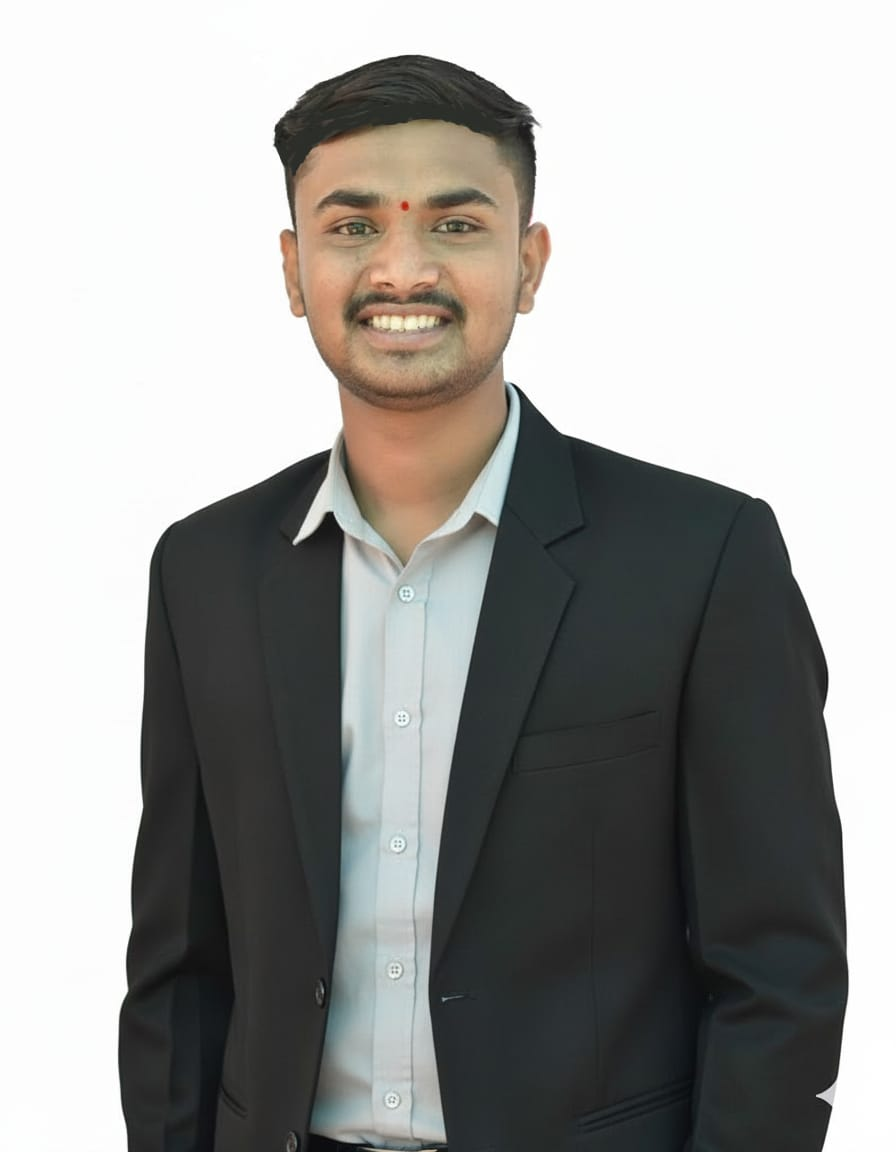
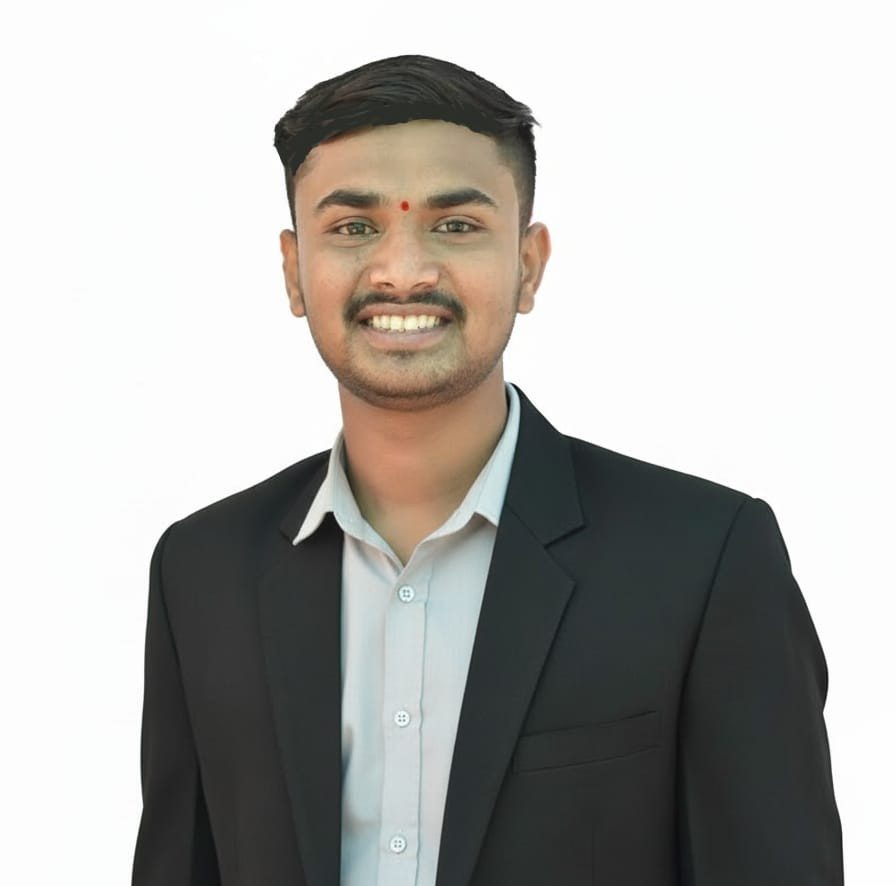
some changes

Changed region(s): [[0.125, 0.0305, 0.9688, 1.0], [0.2188, 0.6704, 0.2812, 0.9447], [0.75, 0.8837, 0.7812, 0.9447]]

diff --git a/src/components/Skills/index.js b/src/components/Skills/index.js
@@ -124,7 +124,7 @@ const Skills = () => {
     <Container id="skills">
       <Wrapper>
         <Title>Skills</Title>
-        <Desc>Here are some of my skills on which I have been working on for the past 3 years.
+        <Desc>Here are some of my skills on which I have been working on for the past 5 years.
         </Desc>
         <SkillsContainer>
           {skills.map((skill) => (

diff --git a/src/data/constants.js b/src/data/constants.js
@@ -7,7 +7,7 @@ export const Bio = {
   description:
     "I am a motivated and versatile individual, always eager to take on new challenges. With a passion for learning, I am dedicated to delivering high-quality results. With a positive attitude and a growth mindset, I am ready to make a meaningful contribution and achieve great things.",
   github: "https://github.com/Viru45",
-  resume: "https://drive.google.com/file/d/1lRyqT6SdkwsY2rJDjp2VdqPI4AHQGicb/view?usp=sharing",
+  resume: "https://drive.google.com/file/d/16x11P8JQhckFZ9MAFV0hpSnazJx0WUl9/view?usp=drive_link",
   linkedin: "https://www.linkedin.com/in/virendra-kharate",
   insta: "https://www.instagram.com/virendra_37_/",
   email: "[email redacted]",